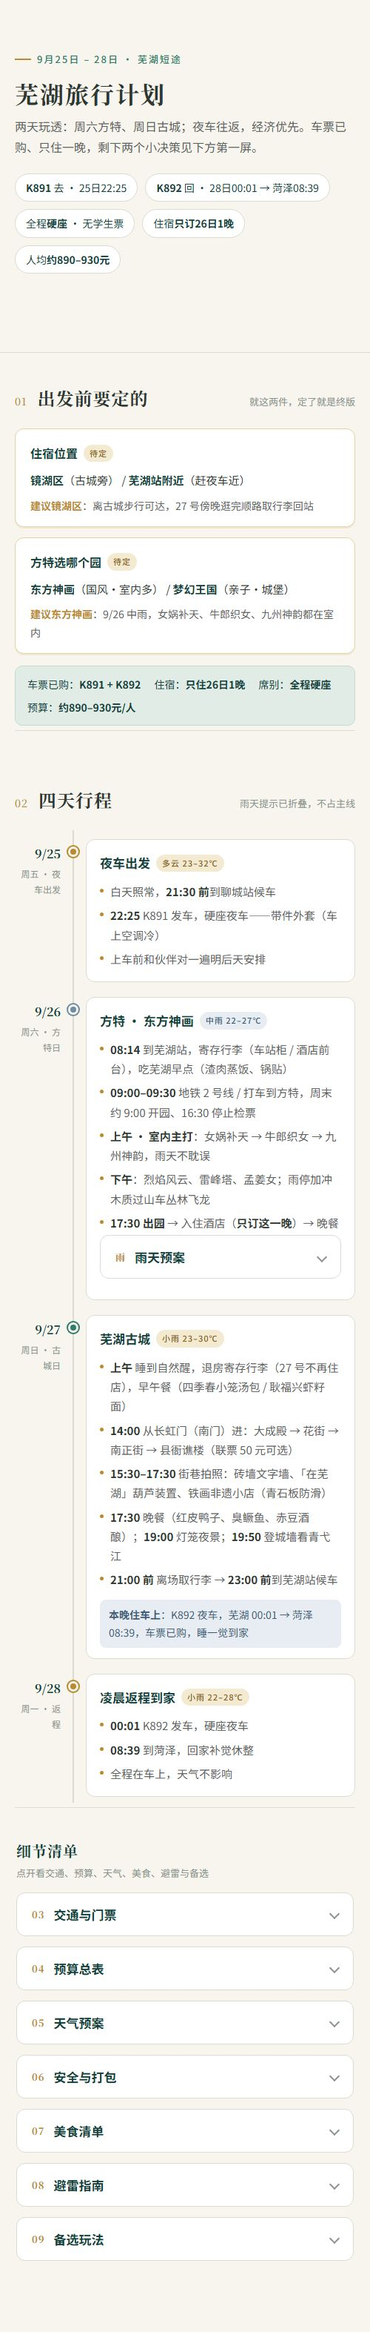
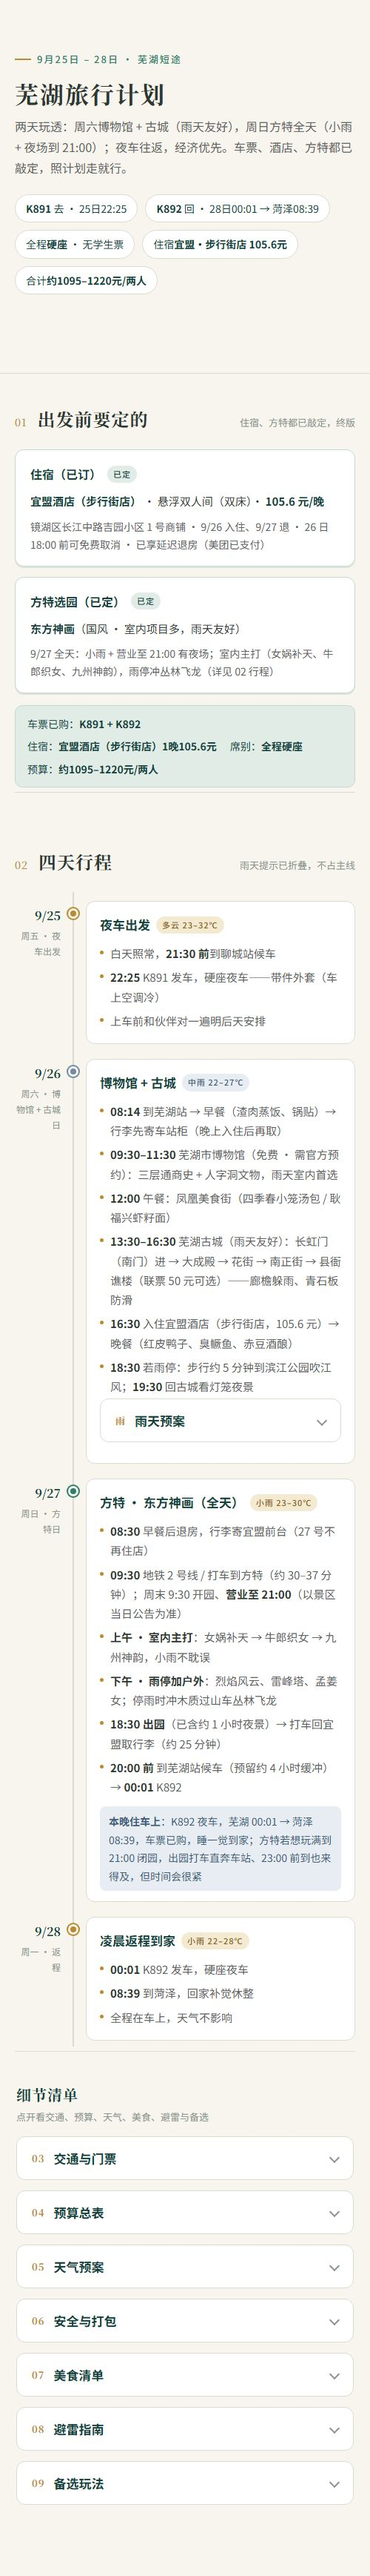
更新应用

diff --git a/芜湖旅行计划.html b/芜湖旅行计划.html
@@ -189,7 +189,6 @@
     color:#fff;font-size:12px;font-weight:700;
     display:inline-flex;align-items:center;justify-content:center;flex:none;
   }
-  .mk.mk4{background:#FFFFFF;color:var(--ink-faint);border:1px dashed var(--ink-faint);}
   .mk.mk7,.mk.mk8,.mk.mk9,.mk.mk10,.mk.mk11{background:#B98A2F;}
   .swatch{width:20px;height:4px;border-radius:2px;flex:none;}
   .swatch.l1{background:var(--teal-mid);}
@@ -255,13 +254,13 @@
   <div class="wrap">
     <div class="hero-kicker">9月25日 – 28日 · 芜湖短途</div>
     <h1 class="serif">芜湖旅行计划</h1>
-    <p class="hero-sub">两天玩透：周六方特、周日古城；夜车往返，经济优先。车票已购、只住一晚，剩下两个小决策见下方第一屏。</p>
+    <p class="hero-sub">两天玩透：周六博物馆 + 古城（雨天友好），周日方特全天（小雨 + 夜场到 21:00）；夜车往返，经济优先。车票、酒店、方特都已敲定，照计划走就行。</p>
     <div class="hero-meta">
       <span><b>K891</b> 去 · 25日22:25</span>
       <span><b>K892</b> 回 · 28日00:01 → 菏泽08:39</span>
       <span>全程<b>硬座</b> · 无学生票</span>
-      <span>住宿<b>只订26日1晚</b></span>
-      <span>人均<b>约890–930元</b></span>
+      <span>住宿<b>宜盟·步行街店 105.6元</b></span>
+      <span>合计<b>约1095–1220元/两人</b></span>
     </div>
   </div>
 </header>
@@ -273,25 +272,25 @@
     <div class="sec-head">
       <span class="sec-no">01</span>
       <h2 class="sec-title serif">出发前要定的</h2>
-      <span class="sec-note">就这两件，定了就是终版</span>
+      <span class="sec-note">住宿、方特都已敲定，终版</span>
     </div>
     <div class="decide-grid">
-      <div class="decide-card">
-        <div class="decide-head">住宿位置 <span class="flag">待定</span></div>
-        <div class="decide-opts"><b>镜湖区</b>（古城旁） / <b>芜湖站附近</b>（赶夜车近）</div>
-        <div class="decide-rec"><b>建议镜湖区</b>：离古城步行可达，27 号傍晚逛完顺路取行李回站</div>
+      <div class="decide-card" style="border-color:#C4DAD0;box-shadow:0 2px 0 rgba(31,90,82,.12);">
+        <div class="decide-head">住宿（已订） <span class="flag" style="background:var(--teal-soft);color:var(--teal-dark);">已定</span></div>
+        <div class="decide-opts"><b>宜盟酒店（步行街店）</b> · 悬浮双人间（双床）· <b>105.6 元/晚</b></div>
+        <div class="decide-rec">镜湖区长江中路吉园小区 1 号商铺 · 9/26 入住、9/27 退 · 26 日 18:00 前可免费取消 · 已享延迟退房（美团已支付）</div>
       </div>
-      <div class="decide-card">
-        <div class="decide-head">方特选哪个园 <span class="flag">待定</span></div>
-        <div class="decide-opts"><b>东方神画</b>（国风·室内多） / <b>梦幻王国</b>（亲子·城堡）</div>
-        <div class="decide-rec"><b>建议东方神画</b>：9/26 中雨，女娲补天、牛郎织女、九州神韵都在室内</div>
+      <div class="decide-card" style="border-color:#C4DAD0;box-shadow:0 2px 0 rgba(31,90,82,.12);">
+        <div class="decide-head">方特选园（已定） <span class="flag" style="background:var(--teal-soft);color:var(--teal-dark);">已定</span></div>
+        <div class="decide-opts"><b>东方神画</b>（国风 · 室内项目多，雨天友好）</div>
+        <div class="decide-rec">9/27 全天：小雨 + 营业至 21:00 有夜场；室内主打（女娲补天、牛郎织女、九州神韵），雨停冲丛林飞龙（详见 02 行程）</div>
       </div>
     </div>
     <div class="fixed-bar">
       <span>车票已购：<b>K891 + K892</b></span>
-      <span>住宿：<b>只住26日1晚</b></span>
+      <span>住宿：<b>宜盟酒店（步行街店）1晚105.6元</b></span>
       <span>席别：<b>全程硬座</b></span>
-      <span>预算：<b>约890–930元/人</b></span>
+      <span>预算：<b>约1095–1220元/两人</b></span>
     </div>
   </section>
 
@@ -315,42 +314,44 @@
         </ul>
       </div>
 
-      <div class="tl-time"><div class="tl-date">9/26</div><div class="tl-dow">周六 · 方特日</div></div>
+      <div class="tl-time"><div class="tl-date">9/26</div><div class="tl-dow">周六 · 博物馆 + 古城日</div></div>
       <div class="tl-rail"><span class="tl-dot rain"></span></div>
       <div class="tl-card">
-        <h4>方特 · 东方神画 <span class="tag rain">中雨 22–27℃</span></h4>
+        <h4>博物馆 + 古城 <span class="tag rain">中雨 22–27℃</span></h4>
         <ul>
-          <li><b>08:14</b> 到芜湖站，寄存行李（车站柜 / 酒店前台），吃芜湖早点（渣肉蒸饭、锅贴）</li>
-          <li><b>09:00–09:30</b> 地铁 2 号线 / 打车到方特，周末约 9:00 开园、16:30 停止检票</li>
-          <li><b>上午 · 室内主打</b>：女娲补天 → 牛郎织女 → 九州神韵，雨天不耽误</li>
-          <li><b>下午</b>：烈焰风云、雷峰塔、孟姜女；雨停加冲木质过山车丛林飞龙</li>
-          <li><b>17:30 出园</b> → 入住酒店（<b>只订这一晚</b>）→ 晚餐</li>
+          <li><b>08:14</b> 到芜湖站 → 早餐（渣肉蒸饭、锅贴）→ 行李先寄车站柜（晚上入住后再取）</li>
+          <li><b>09:30–11:30</b> 芜湖市博物馆（免费 · 需官方预约）：三层通商史 + 人字洞文物，雨天室内首选</li>
+          <li><b>12:00</b> 午餐：凤凰美食街（四季春小笼汤包 / 耿福兴虾籽面）</li>
+          <li><b>13:30–16:30</b> 芜湖古城（雨天友好）：长虹门（南门）进 → 大成殿 → 花街 → 南正街 → 县衙谯楼（联票 50 元可选）——廊檐躲雨、青石板防滑</li>
+          <li><b>16:30</b> 入住宜盟酒店（步行街店，105.6 元）→ 晚餐（红皮鸭子、臭鳜鱼、赤豆酒酿）</li>
+          <li><b>18:30</b> 若雨停：步行约 5 分钟到滨江公园吹江风；<b>19:30</b> 回古城看灯笼夜景</li>
         </ul>
         <div class="acc">
           <button type="button" class="acc-btn" aria-expanded="false">
             <span class="acc-no">雨</span>
             <span class="acc-title">雨天预案</span>
-            <span class="acc-desc">雨太大怎么办？点开看</span>
+            <span class="acc-desc">26 日本来就是雨天方案</span>
             <span class="arrow"></span>
           </button>
           <div class="acc-panel">
-            <p class="body small">若雨势过大，<b>与古城对调</b>：26 日下午先逛古城（廊檐+室内展馆+美食），27 日全天方特。入园先看方特 App 排队时长，热门项目优先。</p>
+            <p class="body small">26 日全天为雨天方案：博物馆 + 古城廊檐 + 室内展馆 + 美食，中雨不受影响；雨太大就把滨江公园和夜景砍掉，早回酒店休息，把体力留给 27 日方特。</p>
           </div>
         </div>
       </div>
 
-      <div class="tl-time"><div class="tl-date">9/27</div><div class="tl-dow">周日 · 古城日</div></div>
+      <div class="tl-time"><div class="tl-date">9/27</div><div class="tl-dow">周日 · 方特日</div></div>
       <div class="tl-rail"><span class="tl-dot warn"></span></div>
       <div class="tl-card">
-        <h4>芜湖古城 <span class="tag warn">小雨 23–30℃</span></h4>
+        <h4>方特 · 东方神画（全天） <span class="tag warn">小雨 23–30℃</span></h4>
         <ul>
-          <li><b>上午</b> 睡到自然醒，退房寄存行李（27 号不再住店），早午餐（四季春小笼汤包 / 耿福兴虾籽面）</li>
-          <li><b>14:00</b> 从长虹门（南门）进：大成殿 → 花街 → 南正街 → 县衙谯楼（联票 50 元可选）</li>
-          <li><b>15:30–17:30</b> 街巷拍照：砖墙文字墙、「在芜湖」葫芦装置、铁画非遗小店（青石板防滑）</li>
-          <li><b>17:30</b> 晚餐（红皮鸭子、臭鳜鱼、赤豆酒酿）；<b>19:00</b> 灯笼夜景；<b>19:50</b> 登城墙看青弋江</li>
-          <li><b>21:00 前</b> 离场取行李 → <b>23:00 前</b>到芜湖站候车</li>
+          <li><b>08:30</b> 早餐后退房，行李寄宜盟前台（27 号不再住店）</li>
+          <li><b>09:30</b> 地铁 2 号线 / 打车到方特（约 30–37 分钟）；周末 9:30 开园、<b>营业至 21:00</b>（以景区当日公告为准）</li>
+          <li><b>上午 · 室内主打</b>：女娲补天 → 牛郎织女 → 九州神韵，小雨不耽误</li>
+          <li><b>下午 · 雨停加户外</b>：烈焰风云、雷峰塔、孟姜女；停雨时冲木质过山车丛林飞龙</li>
+          <li><b>18:30 出园</b>（已含约 1 小时夜景）→ 打车回宜盟取行李（约 25 分钟）</li>
+          <li><b>20:00 前</b> 到芜湖站候车（预留约 4 小时缓冲）→ <b>00:01</b> K892</li>
         </ul>
-        <div class="alt-note"><b>本晚住车上</b>：K892 夜车，芜湖 00:01 → 菏泽 08:39，车票已购，睡一觉到家</div>
+        <div class="alt-note"><b>本晚住车上</b>：K892 夜车，芜湖 00:01 → 菏泽 08:39，车票已购，睡一觉到家；方特若想玩满到 21:00 闭园，出园打车直奔车站、23:00 前到也来得及，但时间会很紧</div>
       </div>
 
       <div class="tl-time"><div class="tl-date">9/28</div><div class="tl-dow">周一 · 返程</div></div>
@@ -405,13 +406,13 @@
             <circle cx="655" cy="60" r="13" fill="#173F3B" stroke="#FFFFFF" stroke-width="2.5"/>
             <circle cx="255" cy="250" r="13" fill="#173F3B" stroke="#FFFFFF" stroke-width="2.5"/>
             <circle cx="210" cy="300" r="13" fill="#173F3B" stroke="#FFFFFF" stroke-width="2.5"/>
-            <circle cx="292" cy="276" r="11" fill="#FFFFFF" stroke="#8A938C" stroke-width="1.5" stroke-dasharray="4 3"/>
+            <circle cx="88" cy="124" r="13" fill="#173F3B" stroke="#FFFFFF" stroke-width="2.5"/>
             <text x="305" y="126" font-size="12" fill="#FFFFFF" font-weight="700" text-anchor="middle" font-family="Noto Sans SC,sans-serif">5</text>
             <text x="545" y="152" font-size="12" fill="#FFFFFF" font-weight="700" text-anchor="middle" font-family="Noto Sans SC,sans-serif">2</text>
             <text x="655" y="64" font-size="12" fill="#FFFFFF" font-weight="700" text-anchor="middle" font-family="Noto Sans SC,sans-serif">1</text>
             <text x="255" y="254" font-size="12" fill="#FFFFFF" font-weight="700" text-anchor="middle" font-family="Noto Sans SC,sans-serif">6</text>
             <text x="210" y="304" font-size="12" fill="#FFFFFF" font-weight="700" text-anchor="middle" font-family="Noto Sans SC,sans-serif">3</text>
-            <text x="292" y="280" font-size="11" fill="#8A938C" font-weight="700" text-anchor="middle" font-family="Noto Sans SC,sans-serif">4</text>
+            <text x="88" y="128" font-size="12" fill="#FFFFFF" font-weight="700" text-anchor="middle" font-family="Noto Sans SC,sans-serif">4</text>
 
             <circle cx="64" cy="112" r="10" fill="#FFF4E2" stroke="#B98A2F" stroke-width="1.5"/>
             <text x="64" y="116" font-size="11" fill="#B98A2F" font-weight="700" text-anchor="middle" font-family="Noto Sans SC,sans-serif">7</text>
@@ -430,7 +431,7 @@
             <li><span class="mk mk1">1</span>方特东方神画（鸠江区）· 单轨 2 号线「徽州路站」</li>
             <li><span class="mk mk2">2</span>芜湖站（镜湖区）· K891 到 / K892 发</li>
             <li><span class="mk mk3">3</span>芜湖古城（青弋江畔）· 长虹门</li>
-            <li><span class="mk mk4">4</span>酒店（待定 · 镜湖区）</li>
+            <li><span class="mk">4</span>宜盟酒店（步行街店）· 长江中路 · 9/26 入住</li>
             <li><span class="mk mk5">5</span>鸠兹广场 · 单轨 1 / 2 号线换乘</li>
             <li><span class="mk mk6">6</span>环城北路站（1 号线 → 古城）</li>
             <li><span class="mk mk7">7</span>滨江公园 · 长江日落 / 轮渡约 10 元</li>
@@ -467,23 +468,23 @@
     <button type="button" class="acc-btn" aria-expanded="false">
       <span class="acc-no">04</span>
       <span class="acc-title">预算总表</span>
-      <span class="acc-desc">人均约 890–930 元</span>
+      <span class="acc-desc">两人约 1095–1220 元</span>
       <span class="arrow"></span>
     </button>
     <div class="acc-panel">
       <table class="money">
         <colgroup><col style="width:60%"><col style="width:40%"></colgroup>
-        <thead><tr><th>项目</th><th>人均金额</th></tr></thead>
+        <thead><tr><th>项目</th><th>金额（两人）</th></tr></thead>
         <tbody>
-          <tr><td>大交通（K891 + K892 硬座）</td><td>191 元</td></tr>
-          <tr><td>方特门票（网购优惠价 / 门市价）</td><td>239–280 元</td></tr>
-          <tr><td>住宿 1 晚（人均）</td><td>约 100 元</td></tr>
-          <tr><td>餐饮 3 天（人均）</td><td>约 300 元</td></tr>
-          <tr><td>市内交通</td><td>约 60 元</td></tr>
-          <tr class="total"><td>合计</td><td>约 890–930 元</td></tr>
+          <tr><td>大交通（K891 + K892，两人）</td><td>253 元</td></tr>
+          <tr><td>方特门票 × 2（网购优惠价 / 门市价）</td><td>478–560 元</td></tr>
+          <tr><td>住宿 1 间房 1 晚（宜盟酒店·步行街店）</td><td>105.6 元</td></tr>
+          <tr><td>餐饮（两人合计）</td><td>约 200 元</td></tr>
+          <tr><td>市内交通（两人合计）</td><td>约 60–100 元</td></tr>
+          <tr class="total"><td>合计（两人）</td><td>约 1095–1220 元</td></tr>
         </tbody>
       </table>
-      <p class="budget-note">古城联票 50 元另计（可选）。门票按网购优惠价取 239 元、按门市价取 280 元，对应合计约 890 / 930 元。</p>
+      <p class="budget-note">古城联票 50 元另计（可选）。大交通 253 = 我 191（K891 105 + K892 86）+ 同伴 62。门票按网购 239 / 门市 280 元 × 2 人。住宿 105.6 元已支付（美团：宜盟酒店·步行街店，9/26 入住 9/27 退）。市内交通：地铁为主约 60，27 日晚方特→酒店取行李→车站两段打车约 100。合计低值 253+478+105.6+200+60≈1097，高值 253+560+105.6+200+100≈1219。</p>
     </div>
   </div>
 
@@ -492,8 +493,7 @@
     <button type="button" class="acc-btn" aria-expanded="false">
       <span class="acc-no">05</span>
       <span class="acc-title">天气预案</span>
-      <span class="acc-desc">9/26 中雨 · 9/27–28 小雨</span>
-      <span class="arrow"></span>
+      <span class="acc-desc">9/26 中雨 · 9/27–28 小雨</span>      <span class="arrow"></span>
     </button>
     <div class="acc-panel">
       <table>
@@ -501,8 +501,8 @@
         <thead><tr><th>日期</th><th>天气</th><th>方案</th></tr></thead>
         <tbody>
           <tr><td><b>9/25</b></td><td>多云 23–32℃</td><td>正常出发，夜车带件外套</td></tr>
-          <tr><td><b>9/26</b></td><td>中雨 22–27℃</td><td>东方神画室内为主；雨太大与古城对调</td></tr>
-          <tr><td><b>9/27</b></td><td>小雨 23–30℃</td><td>古城廊檐 + 展馆，带伞，青石板防滑</td></tr>
+          <tr><td><b>9/26</b></td><td>中雨 22–27℃</td><td>博物馆 + 古城廊檐 + 美食，雨天友好；雨太大砍掉滨江公园和夜景</td></tr>
+          <tr><td><b>9/27</b></td><td>小雨 23–30℃</td><td>方特全天：室内为主 + 雨停户外 + 夜场；预报若转大雨，提前出园赶车</td></tr>
           <tr><td><b>9/28</b></td><td>小雨 22–28℃</td><td>凌晨夜车返程，不受影响</td></tr>
         </tbody>
       </table>
@@ -628,9 +628,9 @@
         <colgroup><col style="width:22%"><col style="width:42%"><col style="width:36%"></colgroup>
         <thead><tr><th>备选</th><th>怎么玩</th><th>适合</th></tr></thead>
         <tbody>
-          <tr><td><b>滨江公园</b>（免费）</td><td>长江日落（约 17–18 点）、中江塔 + 老海关钟楼出片；轮渡约 10 元</td><td>傍晚顺路看江；古城玩腻了去吹江风</td></tr>
-          <tr><td><b>芜湖市博物馆</b>（免费）</td><td>三层看芜湖通商史、人字洞文物；需官方预约，别买黄牛"内部票"</td><td>雨天室内备选</td></tr>
-          <tr><td><b>鸠兹古镇</b></td><td>徽派水乡夜景 + 演出；白天约 80 元，夜场约 40 元更划算</td><td>时间富余、爱拍照；内部餐饮溢价，吃饱再去</td></tr>
+          <tr><td><b>滨江公园</b>（免费）</td><td>长江日落（约 17–18 点）、中江塔 + 老海关钟楼出片；轮渡约 10 元</td><td>已并入 26 日傍晚：宜盟酒店步行约 5 分钟，若雨停就去</td></tr>
+          <tr><td><b>芜湖市博物馆</b>（免费）</td><td>三层看芜湖通商史、人字洞文物；需官方预约，别买黄牛"内部票"</td><td>已并入 26 日上午主线（雨天室内）</td></tr>
+          <tr><td><b>鸠兹古镇</b></td><td>徽派水乡夜景 + 演出；白天约 80 元，夜场约 40 元更划算</td><td>本次时间紧（26 日满、27 日赶车），大概率去不了，可留待下次</td></tr>
           <tr><td><b>镜湖公园 + 鸠兹广场</b>（免费）</td><td>鸠兹雕塑地标，镜湖游船约 30 元 / 人</td><td>市中心碎片时间，顺路买杯卡旺卡</td></tr>
           <tr><td><b>赭山公园 + 广济寺</b>（免费）</td><td>登赭山看城景；广济寺周边"算命大妈"是套路，别信</td><td>上午散步备选</td></tr>
         </tbody>
@@ -673,7 +673,8 @@
     {c:[31.358399,118.468791],t:'方特东方神画',d:'单轨2号线「徽州路站」· 9/26 游玩'},
     {c:[31.347988,118.391536],t:'芜湖站',d:'K891 到 / K892 发'},
     {c:[31.320174,118.384175],t:'芜湖古城',d:'长虹门 · 青弋江畔 · 9/27 游玩'},
-    {c:[31.324770,118.380744],t:'环城北路站',d:'单轨1号线 → 古城'}
+    {c:[31.324770,118.380744],t:'环城北路站',d:'单轨1号线 → 古城'},
+    {c:[31.333592,118.362264],t:'宜盟酒店（步行街店）',d:'长江中路吉园小区1号商铺 · 9/26 入住 105.6元/晚'}
   ];
   var altPts=[
     {c:[31.334750,118.358290],t:'滨江公园（备选）',d:'免费 · 长江日落约17–18点 · 中江塔+老海关钟楼出片 · 轮渡约10元傍晚顺路看江'},
